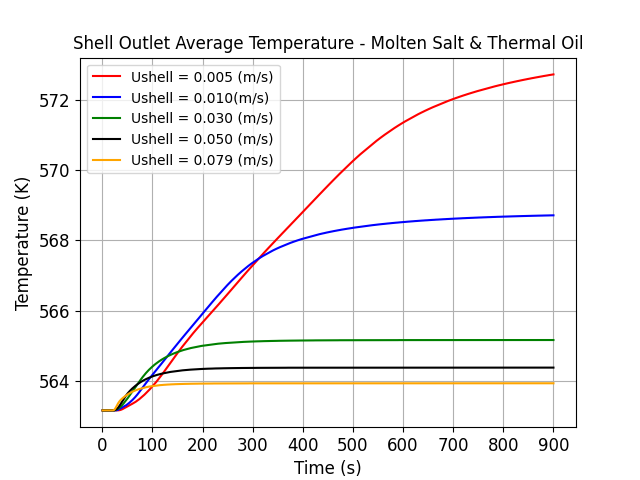
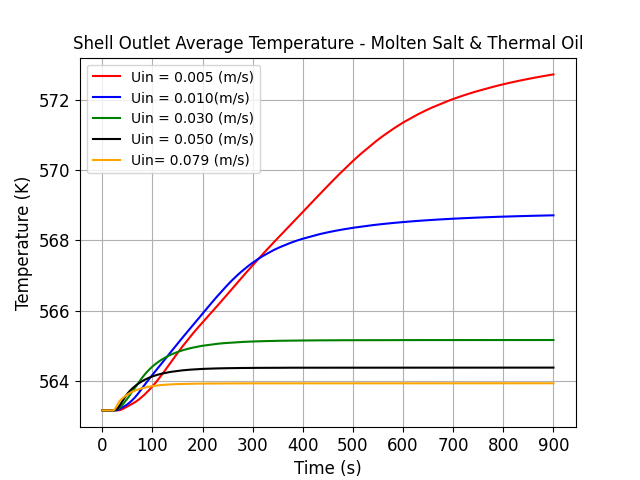
Fixing Labels

Changed region(s): [[0.2188, 0.125, 0.4375, 0.375]]

diff --git a/shellTubeHEX/results/transient/moltenSalt-oil/dataAnalysis/scripts/heatTransferRatePlot.py b/shellTubeHEX/results/transient/moltenSalt-oil/dataAnalysis/scripts/heatTransferRatePlot.py
@@ -57,12 +57,12 @@ Q3 = cp3 * density3 * ((temperature3 - initialTemperature) * velocity3) * area *
 Q4 = cp4 * density4 * ((temperature4 - initialTemperature) * velocity4) * area * 1/1000 # W to kW
 Q5 = cp5 * density5 * ((temperature5 - initialTemperature) * velocity5) * area * 1/1000 # W to kW   
 
-plt.plot(time900, Q1, label='Ushell = 0.005(m/s)', color='red')
+plt.plot(time900, Q1, label='Uin = 0.005(m/s)', color='red')
 #plt.plot(time900, Q1v2, label='Ushell = 0.01(m/s) - No Resistance', color='green')
-plt.plot(time900, Q2, label='Ushell = 0.01(m/s)', color='blue')
-plt.plot(time900v2, Q3, label='Ushell = 0.03(m/s)', color='green')
-plt.plot(time900v2, Q4, label='Ushell = 0.05(m/s)', color='black')
-plt.plot(time900, Q5, label='Ushell = 0.079(m/s)', color='orange')
+plt.plot(time900, Q2, label='Uin = 0.01(m/s)', color='blue')
+plt.plot(time900v2, Q3, label='Uin = 0.03(m/s)', color='green')
+plt.plot(time900v2, Q4, label='Uin = 0.05(m/s)', color='black')
+plt.plot(time900, Q5, label='Uin = 0.079(m/s)', color='orange')
 
 plt.legend()
 plt.xlabel('Time (s)', fontsize = 12)

diff --git a/shellTubeHEX/results/transient/moltenSalt-oil/dataAnalysis/scripts/temperaturePlot.py b/shellTubeHEX/results/transient/moltenSalt-oil/dataAnalysis/scripts/temperaturePlot.py
@@ -24,11 +24,11 @@ time900v2 = data3["Time"]
 
 # Choose the data to plot (Please select pairs 1-4, 2-5, 3-6)
 
-plt.plot(time900, temperature1, label='Ushell = 0.005 (m/s)', color='red')
-plt.plot(time900, temperature2, label='Ushell = 0.010(m/s)', color='blue')
-plt.plot(time900v2, temperature3, label='Ushell = 0.030 (m/s)', color='green')
-plt.plot(time900v2, temperature4, label='Ushell = 0.050 (m/s)', color='black')
-plt.plot(time900, temperature5, label='Ushell = 0.079 (m/s)', color='orange')
+plt.plot(time900, temperature1, label='Uin = 0.005 (m/s)', color='red')
+plt.plot(time900, temperature2, label='Uin = 0.010(m/s)', color='blue')
+plt.plot(time900v2, temperature3, label='Uin = 0.030 (m/s)', color='green')
+plt.plot(time900v2, temperature4, label='Uin = 0.050 (m/s)', color='black')
+plt.plot(time900, temperature5, label='Uin= 0.079 (m/s)', color='orange')
 
 
 plt.legend()
